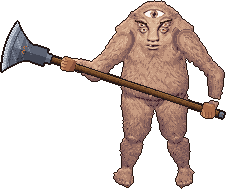
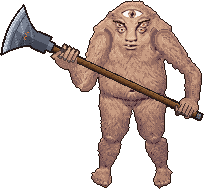
Duel creature: staff-style grip with real hands
Front hand raised and palm up near the head, forearm rising into it at an angle; rear hand palm down at
the hip near the butt. Hands are built from his own lit fur and carry straight on from the forearms,
with four separate fingers curled over the front of the haft, creases, knuckle bends, nails and thumbs.

Claude-Session: https://claude.ai/code/session_01JpLHzsYAvEKzmccr94t7N9

diff --git a/android/art/battle_pose.py b/android/art/battle_pose.py
@@ -134,13 +134,13 @@ def grow(S, E, path, flip=False):
 # source arms (shoulder → wrist), and the new paths
 SL, WL = (86, 64), (57, 112)
 SR, WR = (mx(86), 64), (mx(57), 112)
-NEW_L = [(94, 62), (66, 94), (47, 89)]            # forward arm: elbow down, forearm out to the wrist by the haft
-NEW_R = [(158, 62), (186, 98), (181, 125)]        # back hand: elbow out, forearm in to the hip
+NEW_L = [(94, 62), (78, 104), (61, 81)]            # forward arm: elbow down, forearm out to the wrist by the haft
+NEW_R = [(158, 62), (186, 98), (180, 132)]        # back hand: elbow out, forearm in to the hip
 arm_l = grow(SL, WL, NEW_L)
 arm_r = grow(SR, WR, NEW_R)
 
 # ---- the axe, painted at his pixel scale
-HL, HR = (40, 87), (180, 133)                      # the two fists on the haft
+HL, HR = (62, 78), (180, 133)                      # the two fists on the haft
 ux, uy = HR[0] - HL[0], HR[1] - HL[1]; Lh = math.hypot(ux, uy); ux, uy = ux / Lh, uy / Lh
 nx_, ny_ = -uy, ux
 butt = (HR[0] + ux * 16, HR[1] + uy * 16)
@@ -217,34 +217,86 @@ for y in range(-40, 50):
 for (a, b) in ((16, -4), (17, -3), (18, -2), (17, -1), (16, 0), (17, 1), (18, 2), (17, 3), (16, 4)):
     put(head[0] - ux * a + nx_ * b, head[1] - uy * a + ny_ * b, (210, 116, 52))
 
-# ---- fists closed round the haft
-SKIN = [(98, 53, 48), (134, 80, 60), (168, 108, 76), (196, 138, 98), (217, 166, 124)]
-def fist(c, wrist):
-    """A fist round the haft at `c`, carrying on from the forearm (which ends at `wrist`): the back of
-    the hand toward us, knuckles on the far side of the haft, fingers wrapped over it, thumb on top."""
-    lay = layer(); fp = lay.load()
-    cx, cy = c
-    dx, dy = cx - wrist[0], cy - wrist[1]; L = math.hypot(dx, dy); ax, ay = dx / L, dy / L   # along the hand
-    bx, by = -ay, ax                                                                          # across it
-    for y in range(-12, 13):
-        for x in range(-12, 13):
-            u = x * ax + y * ay; v = x * bx + y * by          # u: wrist (-) → knuckles (+); v: across
-            # a mitten shape: narrow at the wrist, widest over the knuckles, rounded off
-            half = 5.2 + 1.6 * max(0.0, min(1.0, (u + 7) / 10))
-            if u < -7 or u > 7.5 or abs(v) > half or (u > 4.5 and (u - 4.5) ** 2 / 9 + v * v / (half * half) > 1): continue
-            light = -0.08 * (x + y) + 0.12 * u
-            k = 2 + (1 if light > 0.45 else 0) + (1 if light > 1.1 else 0) - (1 if light < -0.7 else 0)
-            # finger creases across the hand near the knuckles, the knuckle row catching the light
-            if 1.5 < u < 7 and abs(v) < half - 1 and round(v + half) % 3 == 0: k = 1
-            if 4.5 < u < 6 and round(v + half) % 3 == 1: k = min(4, k + 1)
-            X, Y = round(cx + x) + PAD_L, round(cy + y) + PAD_T
-            fp[X, Y] = SKIN[max(0, min(4, k))] + (255,)
-    # the thumb lying along the top of the haft
-    tx, ty = cx - ux * 4 - nx_ * 5, cy - uy * 4 - ny_ * 5
-    for t in range(0, 7):
-        for w in (-1, 0, 1):
-            X, Y = round(tx + ux * t + nx_ * w) + PAD_L, round(ty + uy * t + ny_ * w) + PAD_T
-            fp[X, Y] = (SKIN[3] if w < 1 else SKIN[2]) + (255,)
+# ---- hands closed round the haft (see the grip notes in the study): four fingers curl over the
+# front of the haft, each its own rounded finger with a crease between, the knuckle bend catching the
+# light, dark nails at the tips; the hand behind carries straight on from the forearm, in his own fur
+NAIL = [(52, 40, 44), (84, 70, 72), (122, 108, 108)]
+def palette_near(img, c, r=10):
+    px_ = img.load(); cols = []
+    for y in range(-r, r + 1):
+        for x in range(-r, r + 1):
+            X, Y = round(c[0] + x) + PAD_L, round(c[1] + y) + PAD_T
+            if 0 <= X < CW and 0 <= Y < CH:
+                p_ = px_[X, Y]
+                if p_[3] and sum(p_[:3]) > 200: cols.append(p_[:3])
+    cols.sort(key=sum); n = len(cols)
+    return [cols[min(n - 1, int(n * q))] for q in (0.05, 0.25, 0.5, 0.75, 0.95)]
+def grip(img, c, wrist, palm_up, sc=1.0):
+    """palm_up: fingers come over the haft from the far side and tuck toward the wrist (front hand);
+    otherwise the back of the hand sits on the wrist side and the fingers curl away from it (rear hand).
+    Every pixel is labelled (hand, thumb, finger 1-4) and shaded in his own lit fur, then a dark crease
+    is drawn wherever two parts meet and round each finger where it lies over the haft."""
+    F = palette_near(img, wrist, 9)
+    CREASE = tuple(int(v * 0.55) for v in F[0])
+    lay = layer(); lp = lay.load()
+    s_ = 1 if (wrist[0] - c[0]) * nx_ + (wrist[1] - c[1]) * ny_ > 0 else -1     # +b: toward the wrist
+    def ab(X, Y):
+        x, y = X - c[0], Y - c[1]; return (x * ux + y * uy) / sc, (x * nx_ + y * ny_) * s_ / sc
+    hb = 3.5 if palm_up else 4.5
+    knuck, tip = (-5.5, 4.0) if palm_up else (5.5, -4.5)
+    widths = [3.4, 3.2, 3.0, 2.6]; fings = []; a0 = -6.4
+    for i, wd in enumerate(widths):
+        tp = tip - ((1.0 if tip > knuck else -1.0) if i == 3 else 0)
+        fings.append((a0 + wd / 2, wd, tp)); a0 += wd
+    t0, t1 = ((-9.0, 5.0), (-5.0, -1.5)) if palm_up else ((-9.0, -0.5), (-5.5, -5.5))
+    def seg_d(a, b):
+        dx, dy = t1[0] - t0[0], t1[1] - t0[1]; L2 = dx * dx + dy * dy
+        f = max(0, min(1, ((a - t0[0]) * dx + (b - t0[1]) * dy) / L2))
+        return math.hypot(a - t0[0] - dx * f, b - t0[1] - dy * f), f
+    def label(a, b):
+        fl = None
+        for i, (ac, wd, tp) in enumerate(fings):
+            lo, hi = min(knuck, tp), max(knuck, tp)
+            if not (lo - 0.5 <= b <= hi + 0.5): continue
+            e = min(1.0, abs(b - (lo + hi) / 2) / ((hi - lo) / 2 + 0.5))
+            if abs(a - ac) <= wd / 2 * (1 - e ** 5) ** 0.3: fl = 10 + i; break
+        d, f = seg_d(a, b); th = d <= 1.5
+        if palm_up and th: return 2
+        if fl is not None: return fl
+        if th: return 2
+        if (a / 8.0) ** 2 + ((b - hb) / 6.0) ** 2 <= 1: return 1
+        return 0
+    R = round(14 * sc); lab = {}
+    for Y in range(round(c[1]) - R, round(c[1]) + R + 1):
+        for X in range(round(c[0]) - R, round(c[0]) + R + 1):
+            lab[(X, Y)] = label(*ab(X, Y))
+    for (X, Y), l in lab.items():
+        if not l: continue
+        a, b = ab(X, Y); up = (c[1] - Y) / sc
+        if l == 1:
+            k = 2 + (1 if up > 2 else 0) - (1 if up < -3 else 0)
+            r_ = random.random(); k += (1 if r_ < 0.18 else -1 if r_ > 0.8 else 0)       # his fur's speckle
+            col = F[max(0, min(4, k))]
+        elif l == 2:
+            d, f = seg_d(a, b)
+            col = F[3] if up >= c[1] - Y and d < 0.8 else F[2]
+            if f > 0.78: col = NAIL[1] if d < 0.8 else NAIL[0]
+        else:
+            ac, wd, tp = fings[l - 10]; fa = a - ac
+            k = 3 if abs(fa) < wd / 2 - 1.0 else 2
+            if up > 1: k += 1
+            if abs(b - knuck) < 1.8: k = min(4, k + 1)                     # the knuckle bend
+            if random.random() < 0.12: k -= 1
+            col = F[min(4, k)]
+            if abs(b - tp) < 1.4 and abs(fa) < wd / 2 - 0.4: col = NAIL[1] if abs(fa) > 0.5 else NAIL[2]
+        # creases: where a finger meets another part, or lies over the haft / the open air
+        if l >= 2:
+            for dx, dy in ((1, 0), (-1, 0), (0, 1), (0, -1)):
+                m = lab.get((X + dx, Y + dy), 0)
+                if m != l and not (l == 2 and m == 1) and not (l >= 10 and m == 1 and abs(b - knuck) < 2.5 and not palm_up):
+                    if m == 0 or (m > l if l >= 10 else True) or m == 1:
+                        col = CREASE; break
+        lp[X + PAD_L, Y + PAD_T] = col + (255,)
     return lay
 
 # his body first (legs, torso, arms), with any gaps at the joints closed up...
@@ -280,9 +332,10 @@ for y in range(feet_bottom - 3, feet_bottom + 1):
         r, g, b, al = fp[x, y]
         if al and r + g + b >= 150: fp[x, y] = (int(r * 0.82), int(g * 0.82), int(b * 0.86), al)
 # ...then the axe in front of his arms, and his fists round it
+body_lit = figure
 figure = Image.alpha_composite(figure, axe)
-figure = Image.alpha_composite(figure, fist(HL, NEW_L[-1]))
-figure = Image.alpha_composite(figure, fist(HR, NEW_R[-1]))
+figure = Image.alpha_composite(figure, grip(body_lit, HL, NEW_L[-2], True, 1.45))
+figure = Image.alpha_composite(figure, grip(body_lit, HR, NEW_R[-2], False, 1.2))
 # one clean outline round the whole figure, then tidy specks
 fp = figure.load()
 edge = [(x, y) for y in range(CH) for x in range(CW) if fp[x, y][3] == 0 and any(0 <= x + a < CW and 0 <= y + b < CH and fp[x + a, y + b][3] > 128 for a, b in ((1, 0), (-1, 0), (0, 1), (0, -1)))]
